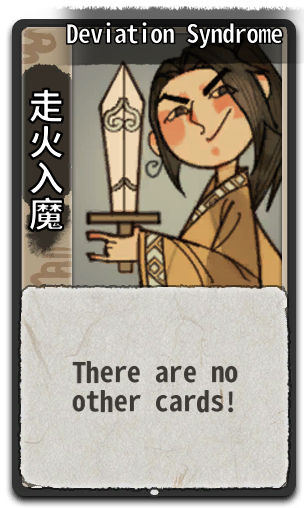
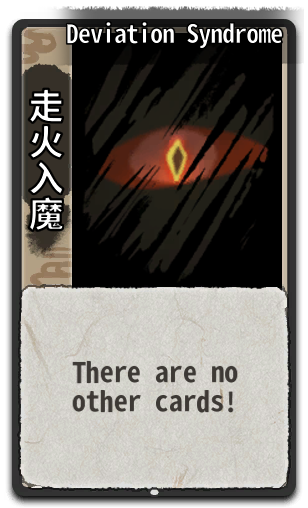
august 21 patch

diff --git a/en/characters/1000006.html b/en/characters/1000006.html
@@ -32,7 +32,7 @@
 <p class="muted">Cloud Spirit Sword Sect</p>
 <div class="character-facts">
 <div class="character-fact">
-<strong>Birth</strong><span>August 7th, YiXian 327 at Wu Hour</span>
+<strong>Birth</strong><span>August 7th, YiXian 337 at Wu Hour</span>
 </div>
 <div class="character-fact">
 <strong>Art</strong><span>The Fusion</span>
